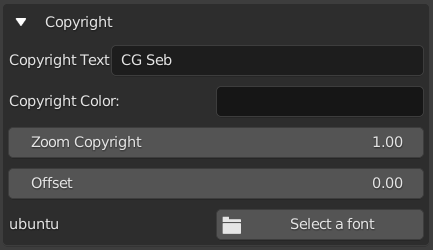
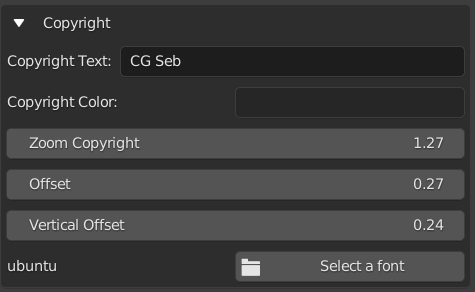
Updating doc for the first stable version

diff --git a/docs/3.howItWorks.md b/docs/3.howItWorks.md
@@ -1,6 +1,6 @@
 # 3. How it works?
-DM Customizer is providing a user interface in the `NPanel > MACHIN3`. You will be able to change the background color 
-and the subset color.
+DM Customizer is providing a user interface in the `NPanel > DMCustomizer`. You will be able to change the background color, 
+the subset color and more of the thumbnail generated by DECALMachine.
 
 <figure markdown>
   ![Image title](images/DMCusNPanel.png){ width="400" } 
@@ -8,11 +8,15 @@ and the subset color.
 </figure>
 
 DM Customizer will apply its settings during the bake of a decal. So the only thing you need to do is set the colors
-and settings you want and use the DECALMachine bake like you use to.
+and settings you want and use the DECALMachine bake like you use to. A preview button allows you to see what will be the 
+result.
 
-!!! info Notice
-    The `Zoom Factor` is for the size of the decal on the thumbnail. Decreasing it under `1` will make the decal smaller, 
-    increasing it to more than `1` to make the decal bigger.
+!!! info
+    The preview is available for multiple decal types, use the dropdown to change the preview.
+    <br>**Notice:** The preview is just an example, you still need to bake your decal using DECALMachine
+
+The `Zoom Factor` is for the size of the decal on the thumbnail. Decreasing it under `1` will make the decal smaller, 
+increasing it to more than `1` to make the decal bigger.
 
 <figure markdown>
   ![Image title](images/ZoomFactor.jpg){ width="300" } 

diff --git a/docs/4.copyright.md b/docs/4.copyright.md
@@ -3,7 +3,7 @@ In the DM Customizer interface, there is a `Copyright` section. If you put a tex
 thumbnail during the next bake.
 
 <figure markdown>
-  ![Image title](images/copyrightSection.png){ width="400" } 
+  ![Image title](images/CopyrightSection.png){ width="400" } 
   <figcaption>Copyright section</figcaption>
 </figure>
 
@@ -18,12 +18,21 @@ thumbnail during the next bake.
 
 !!! info
     The `Offset` is for the horizontal location of the copyright on the thumbnail. By default `0` will make the copyright start at the left, 
-    increasing `1` to move the copyright to the right.<br>
-    **Notice:** The copyright doesn't start from the very left of the thumbnail. There is a gap of the emissive indicator
+    increasing to `1` to move the copyright to the right.<br>
+    **Notice:** The copyright doesn't start from the very left of the thumbnail. There is a gap for the emissive indicator
 
 <figure markdown>
   ![Image title](images/OffsetCopyright.jpg){ width="300" } 
   <figcaption>Offset (left 0, right 1)</figcaption>
+</figure>
+
+!!! info
+    The `Vertical Offset` is for the vertical location of the copyright on the thumbnail. By default `0` will make the copyright start at the bottom, 
+    increasing to `1` to move the copyright up.<br>
+
+<figure markdown>
+  ![Image title](images/VerticalOffsetCopyright.jpg){ width="300" } 
+  <figcaption>Vertical Offset (left 0, right 1)</figcaption>
 </figure>
 
 You can change the font by clicking on `Select a font`.

diff --git a/docs/5.extraTools.md b/docs/5.extraTools.md
@@ -1,9 +1,11 @@
 # 5. Extra tools
 
 DM Customizer has some extra tools.
+
 - The first one, will allow you to save the scene settings into the preferences. This way, 
 you will be able to use those settings in another blender project.
-- The Second one, will allow you to load the settings from the preferences into the scene.
+- The Second one, will allow you to load the settings from the preferences into the scene (in a new scene the preferences 
+are automatically loaded).
 
 <figure markdown>
   ![Image title](images/ExtraTools.png){ width="500" } 

diff --git a/docs/index.md b/docs/index.md
@@ -4,6 +4,11 @@
 This Blender addon is **a layer** on top of the <a href="https://machin3.io/DECALmachine/docs/" target="_blank">DECALMachine</a> addon to give 
 the possibility to **personalize the thumbnail** generated by the decal creation.
 
+<figure markdown>
+  ![Image title](images/MainPresentation.png){ width="800" } 
+  <figcaption>DM Customizer</figcaption>
+</figure>
+
 # Introduction
 DECALMachine is an addon for Blender allowing to generate all sorts of decals in order to add details to your scene. 
 
